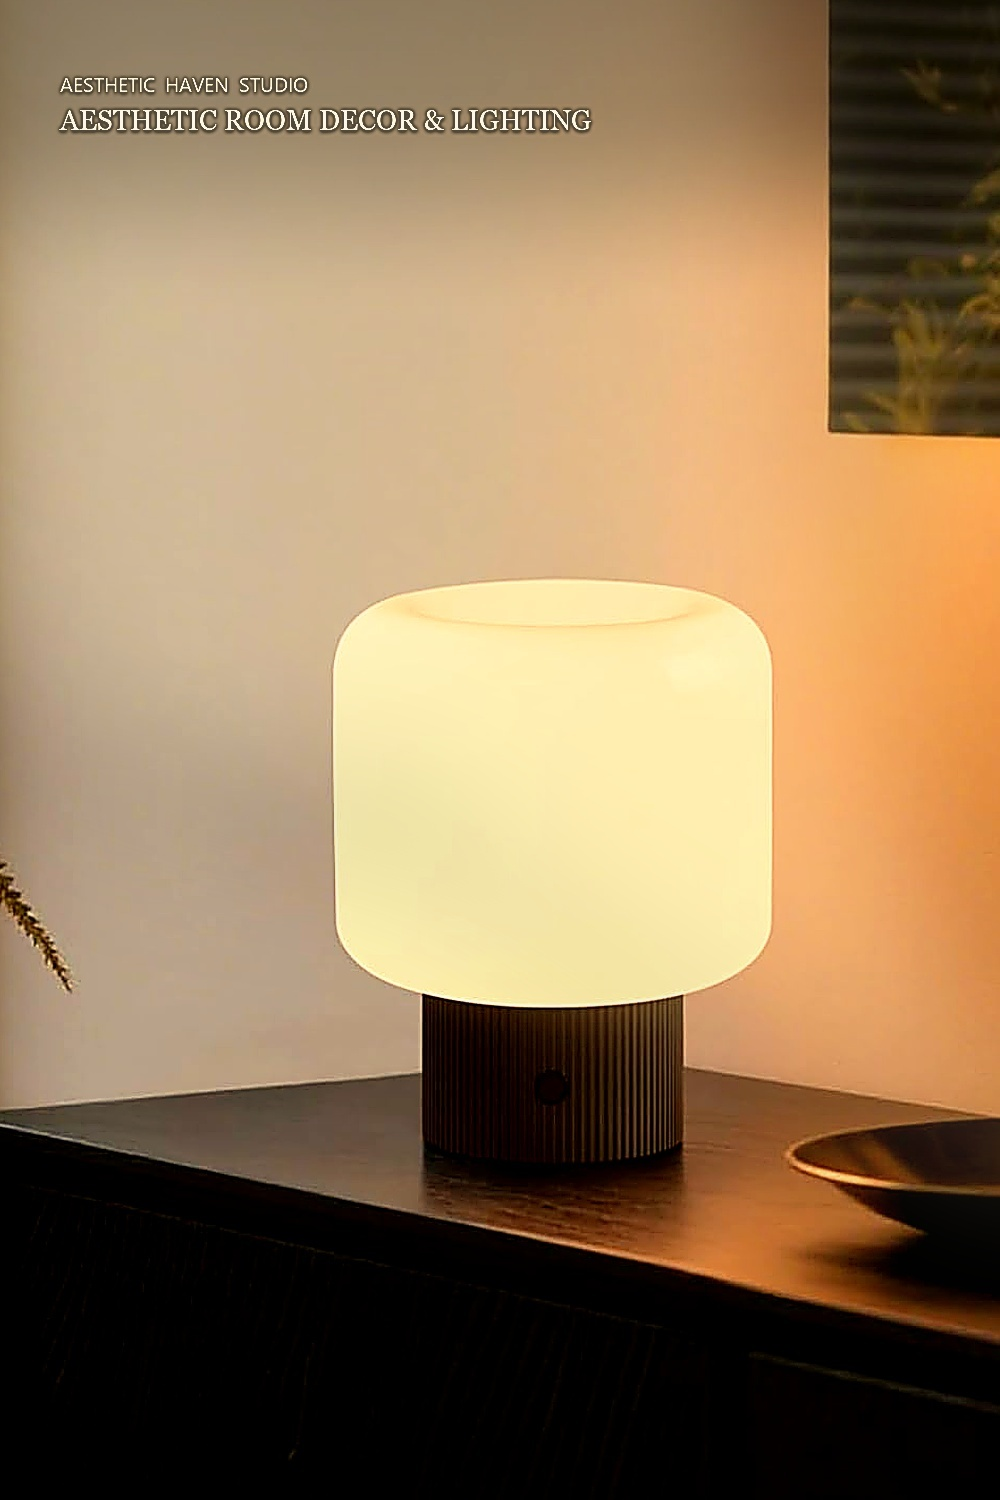
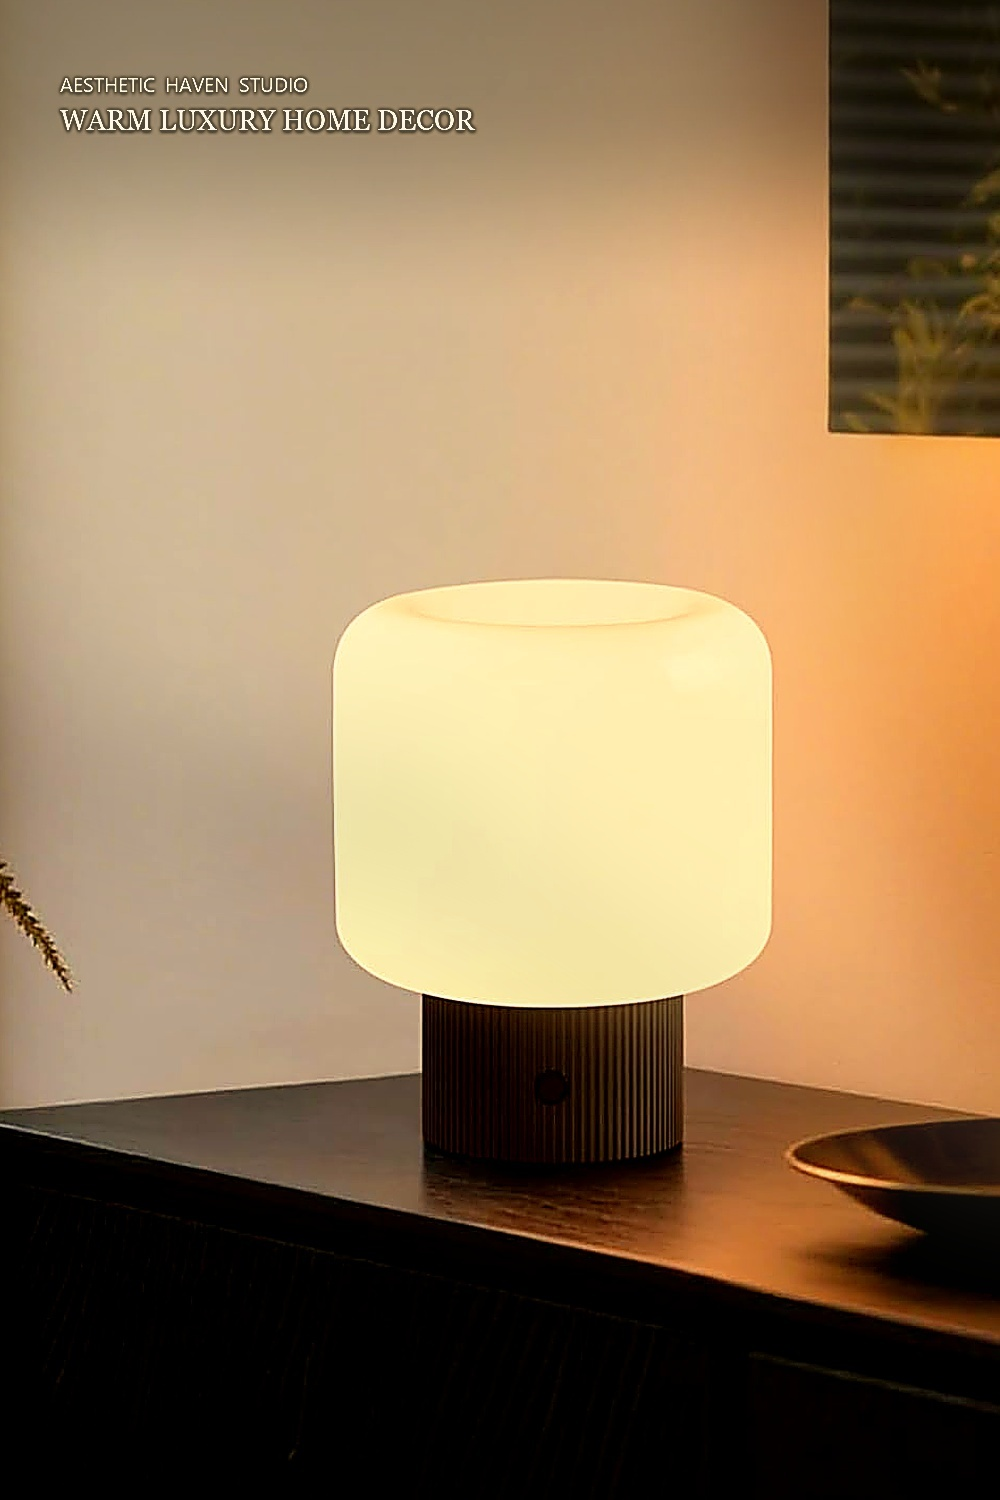
feat(curated): publish mushroom-lamp-5w-cute-cordless-rechargeable-table- with 2:3 mockup & 1-to-1 synced specs

Changed region(s): [[0.062, 0.0613, 0.589, 0.092]]

diff --git a/curated/mushroom-lamp-5w-cute-cordless-rechargeable-table-.html b/curated/mushroom-lamp-5w-cute-cordless-rechargeable-table-.html
@@ -3,13 +3,13 @@
 <head>
   <meta charset="UTF-8">
   <meta name="viewport" content="width=device-width, initial-scale=1.0, viewport-fit=cover">
-  <title>Mushroom Lamp Cordless Table Lamp | Aesthetic Room Decor — Architectural Sourcebook | AgentWell Curated</title>
+  <title>Mushroom Lamp: Cordless Glass Table Lamp | Warm Luxury Decor — Architectural Sourcebook | AgentWell Curated</title>
   <meta name="description" content="Editorial sourcebook and real-time deal review for Mushroom Lamp, 5W Cute Cordless Rechargeable Table Lamp with Glass Shade, 3 Colo. Handpicked for warm minimalist and modern spaces.">
   <link rel="canonical" href="https://agentwell.agency/curated/mushroom-lamp-5w-cute-cordless-rechargeable-table-">
   
   <meta property="og:type" content="article">
-  <meta property="og:title" content="Mushroom Lamp Cordless Table Lamp | Aesthetic Room Decor">
-  <meta property="og:description" content="The tactile glass shade and cordless profile offer ultimate placement freedom without tangled wires breaking your sightlines. Position it on a bookshelf, reading nook, or entryway console for instant architectural warmth.">
+  <meta property="og:title" content="Mushroom Lamp: Cordless Glass Table Lamp | Warm Luxury Decor">
+  <meta property="og:description" content="Its organic silhouette and cordless design offer absolute placement freedom. Style it on open shelving or a bedside table to introduce soft architectural curves and warm tactile illumination.">
   <meta property="og:image" content="https://m.media-amazon.com/images/I/61ELGwv8C9L._AC_SL1500_.jpg">
   
   <script src="https://cdn.tailwindcss.com"></script>
@@ -41,7 +41,7 @@
         <div class="w-7 h-7 rounded-full bg-cream border border-charcoal/20 flex items-center justify-center font-serif text-xs font-semibold">AH</div>
         <span class="font-serif text-lg font-medium tracking-tight">Aesthetic Haven Studio <span class="text-xs text-terracotta font-sans font-normal ml-1">Curated by AgentWell</span></span>
       </a>
-      <span class="text-xs uppercase tracking-widest text-charcoal-light font-medium">Aesthetic Room Decor & Lighting</span>
+      <span class="text-xs uppercase tracking-widest text-charcoal-light font-medium">Warm Luxury Home Decor</span>
     </div>
   </header>
 
@@ -70,14 +70,14 @@
           </span>
         </div>
         <h1 class="font-serif text-2xl sm:text-4xl font-medium text-charcoal leading-tight">
-          Mushroom Lamp Cordless Table Lamp | Aesthetic Room Decor
+          Mushroom Lamp: Cordless Glass Table Lamp | Warm Luxury Decor
         </h1>
         <p class="text-sm text-charcoal-light">Architectural Curation & Quality Verification by Aesthetic Haven Studio</p>
       </div>
 
       <!-- AAS Lifestyle Intro Block -->
       <div class="p-5 rounded-2xl bg-[#F7F5F0] border-l-4 border-terracotta text-charcoal-muted leading-relaxed font-serif text-base sm:text-lg italic">
-        "Lighting defines the mood of a room, transforming stark corners into serene sanctuaries. This rechargeable mushroom lamp introduces a soft, organic silhouette that anchors modern warm minimalist interiors with effortless grace."
+        "True luxury lives in the details that shift how a room feels at dusk. This rechargeable glass mushroom lamp casts an intimate, diffused glow that grounds your evening routine in calm."
       </div>
 
       <!-- Visual Gallery (Product HD Image + 2:3 Mockup Image) -->
@@ -136,7 +136,7 @@
             <tbody class="divide-y divide-borderWarm">
               <tr class="bg-cream/40">
                 <th class="px-4 py-3 font-medium text-charcoal-light w-1/3">Target Collection</th>
-                <td class="px-4 py-3 text-charcoal font-medium">Aesthetic Room Decor & Lighting</td>
+                <td class="px-4 py-3 text-charcoal font-medium">Warm Luxury Home Decor</td>
               </tr>
               <tr>
                 <th class="px-4 py-3 font-medium text-charcoal-light">ASIN</th>
@@ -163,7 +163,7 @@
       <div class="space-y-4 pt-4 border-t border-borderWarm">
         <h2 class="font-serif text-xl sm:text-2xl font-medium text-charcoal">Why It Belongs In Your Space</h2>
         <p class="text-charcoal-muted leading-relaxed text-sm sm:text-base">
-          The tactile glass shade and cordless profile offer ultimate placement freedom without tangled wires breaking your sightlines. Position it on a bookshelf, reading nook, or entryway console for instant architectural warmth.
+          Its organic silhouette and cordless design offer absolute placement freedom. Style it on open shelving or a bedside table to introduce soft architectural curves and warm tactile illumination.
         </p>
         <ul class="space-y-2.5 pt-2">
           <li class="flex items-start gap-2.5 text-sm sm:text-base text-charcoal-muted leading-relaxed"><span class="text-terracotta mt-1">✦</span><span>Architectural Quality & Tactile Finish</span></li><li class="flex items-start gap-2.5 text-sm sm:text-base text-charcoal-muted leading-relaxed"><span class="text-terracotta mt-1">✦</span><span>Designed for Modern Warm Minimalist Spaces</span></li><li class="flex items-start gap-2.5 text-sm sm:text-base text-charcoal-muted leading-relaxed"><span class="text-terracotta mt-1">✦</span><span>Highly Rated by Verified Owners</span></li>

diff --git a/public/curated/mushroom-lamp-5w-cute-cordless-rechargeable-table-.html b/public/curated/mushroom-lamp-5w-cute-cordless-rechargeable-table-.html
@@ -3,13 +3,13 @@
 <head>
   <meta charset="UTF-8">
   <meta name="viewport" content="width=device-width, initial-scale=1.0, viewport-fit=cover">
-  <title>Mushroom Lamp Cordless Table Lamp | Aesthetic Room Decor — Architectural Sourcebook | AgentWell Curated</title>
+  <title>Mushroom Lamp: Cordless Glass Table Lamp | Warm Luxury Decor — Architectural Sourcebook | AgentWell Curated</title>
   <meta name="description" content="Editorial sourcebook and real-time deal review for Mushroom Lamp, 5W Cute Cordless Rechargeable Table Lamp with Glass Shade, 3 Colo. Handpicked for warm minimalist and modern spaces.">
   <link rel="canonical" href="https://agentwell.agency/curated/mushroom-lamp-5w-cute-cordless-rechargeable-table-">
   
   <meta property="og:type" content="article">
-  <meta property="og:title" content="Mushroom Lamp Cordless Table Lamp | Aesthetic Room Decor">
-  <meta property="og:description" content="The tactile glass shade and cordless profile offer ultimate placement freedom without tangled wires breaking your sightlines. Position it on a bookshelf, reading nook, or entryway console for instant architectural warmth.">
+  <meta property="og:title" content="Mushroom Lamp: Cordless Glass Table Lamp | Warm Luxury Decor">
+  <meta property="og:description" content="Its organic silhouette and cordless design offer absolute placement freedom. Style it on open shelving or a bedside table to introduce soft architectural curves and warm tactile illumination.">
   <meta property="og:image" content="https://m.media-amazon.com/images/I/61ELGwv8C9L._AC_SL1500_.jpg">
   
   <script src="https://cdn.tailwindcss.com"></script>
@@ -41,7 +41,7 @@
         <div class="w-7 h-7 rounded-full bg-cream border border-charcoal/20 flex items-center justify-center font-serif text-xs font-semibold">AH</div>
         <span class="font-serif text-lg font-medium tracking-tight">Aesthetic Haven Studio <span class="text-xs text-terracotta font-sans font-normal ml-1">Curated by AgentWell</span></span>
       </a>
-      <span class="text-xs uppercase tracking-widest text-charcoal-light font-medium">Aesthetic Room Decor & Lighting</span>
+      <span class="text-xs uppercase tracking-widest text-charcoal-light font-medium">Warm Luxury Home Decor</span>
     </div>
   </header>
 
@@ -70,14 +70,14 @@
           </span>
         </div>
         <h1 class="font-serif text-2xl sm:text-4xl font-medium text-charcoal leading-tight">
-          Mushroom Lamp Cordless Table Lamp | Aesthetic Room Decor
+          Mushroom Lamp: Cordless Glass Table Lamp | Warm Luxury Decor
         </h1>
         <p class="text-sm text-charcoal-light">Architectural Curation & Quality Verification by Aesthetic Haven Studio</p>
       </div>
 
       <!-- AAS Lifestyle Intro Block -->
       <div class="p-5 rounded-2xl bg-[#F7F5F0] border-l-4 border-terracotta text-charcoal-muted leading-relaxed font-serif text-base sm:text-lg italic">
-        "Lighting defines the mood of a room, transforming stark corners into serene sanctuaries. This rechargeable mushroom lamp introduces a soft, organic silhouette that anchors modern warm minimalist interiors with effortless grace."
+        "True luxury lives in the details that shift how a room feels at dusk. This rechargeable glass mushroom lamp casts an intimate, diffused glow that grounds your evening routine in calm."
       </div>
 
       <!-- Visual Gallery (Product HD Image + 2:3 Mockup Image) -->
@@ -136,7 +136,7 @@
             <tbody class="divide-y divide-borderWarm">
               <tr class="bg-cream/40">
                 <th class="px-4 py-3 font-medium text-charcoal-light w-1/3">Target Collection</th>
-                <td class="px-4 py-3 text-charcoal font-medium">Aesthetic Room Decor & Lighting</td>
+                <td class="px-4 py-3 text-charcoal font-medium">Warm Luxury Home Decor</td>
               </tr>
               <tr>
                 <th class="px-4 py-3 font-medium text-charcoal-light">ASIN</th>
@@ -163,7 +163,7 @@
       <div class="space-y-4 pt-4 border-t border-borderWarm">
         <h2 class="font-serif text-xl sm:text-2xl font-medium text-charcoal">Why It Belongs In Your Space</h2>
         <p class="text-charcoal-muted leading-relaxed text-sm sm:text-base">
-          The tactile glass shade and cordless profile offer ultimate placement freedom without tangled wires breaking your sightlines. Position it on a bookshelf, reading nook, or entryway console for instant architectural warmth.
+          Its organic silhouette and cordless design offer absolute placement freedom. Style it on open shelving or a bedside table to introduce soft architectural curves and warm tactile illumination.
         </p>
         <ul class="space-y-2.5 pt-2">
           <li class="flex items-start gap-2.5 text-sm sm:text-base text-charcoal-muted leading-relaxed"><span class="text-terracotta mt-1">✦</span><span>Architectural Quality & Tactile Finish</span></li><li class="flex items-start gap-2.5 text-sm sm:text-base text-charcoal-muted leading-relaxed"><span class="text-terracotta mt-1">✦</span><span>Designed for Modern Warm Minimalist Spaces</span></li><li class="flex items-start gap-2.5 text-sm sm:text-base text-charcoal-muted leading-relaxed"><span class="text-terracotta mt-1">✦</span><span>Highly Rated by Verified Owners</span></li>
